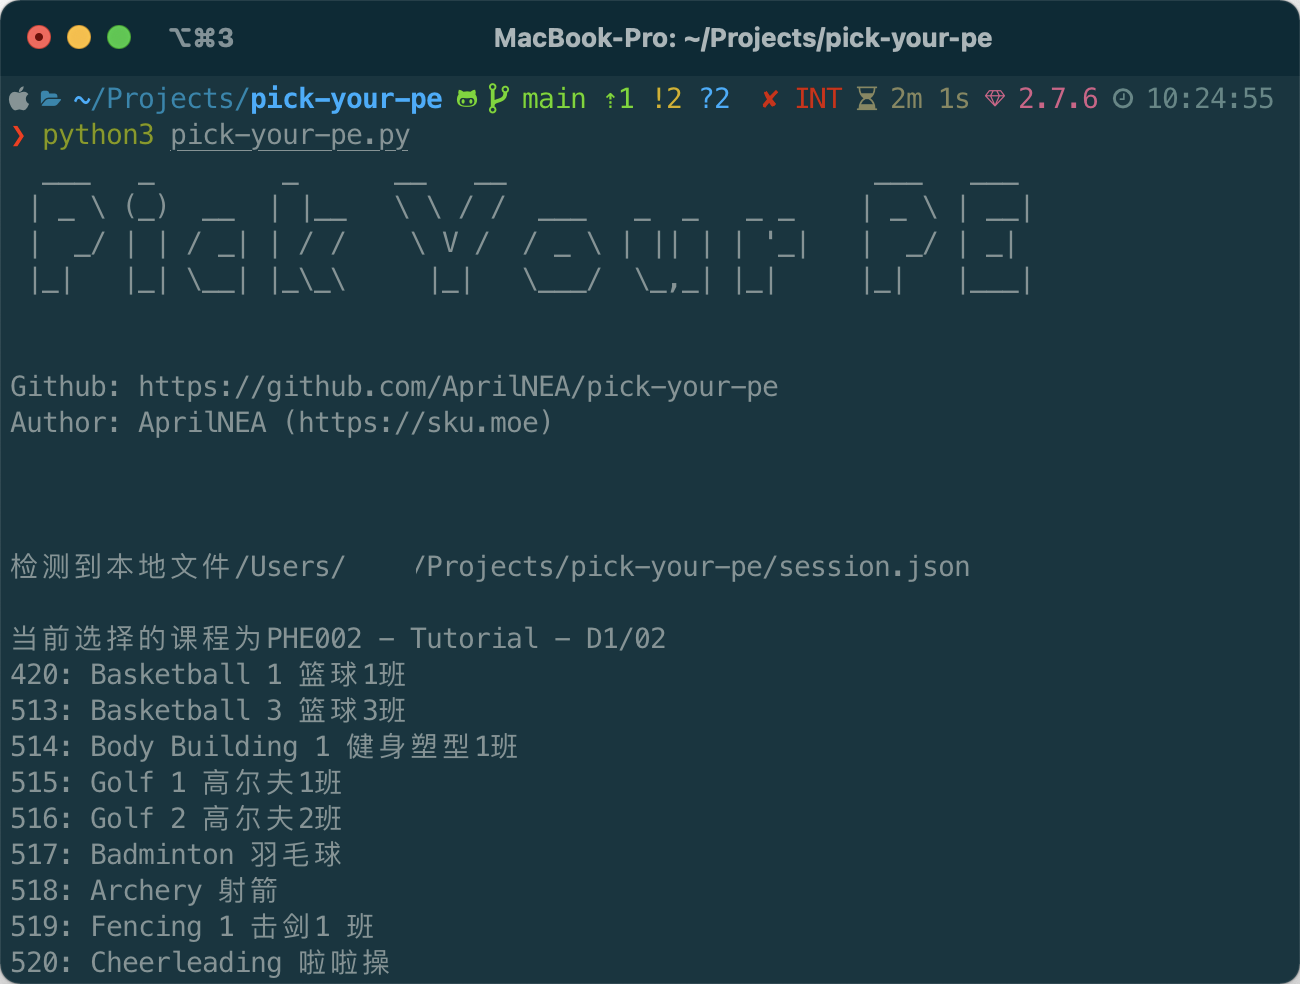
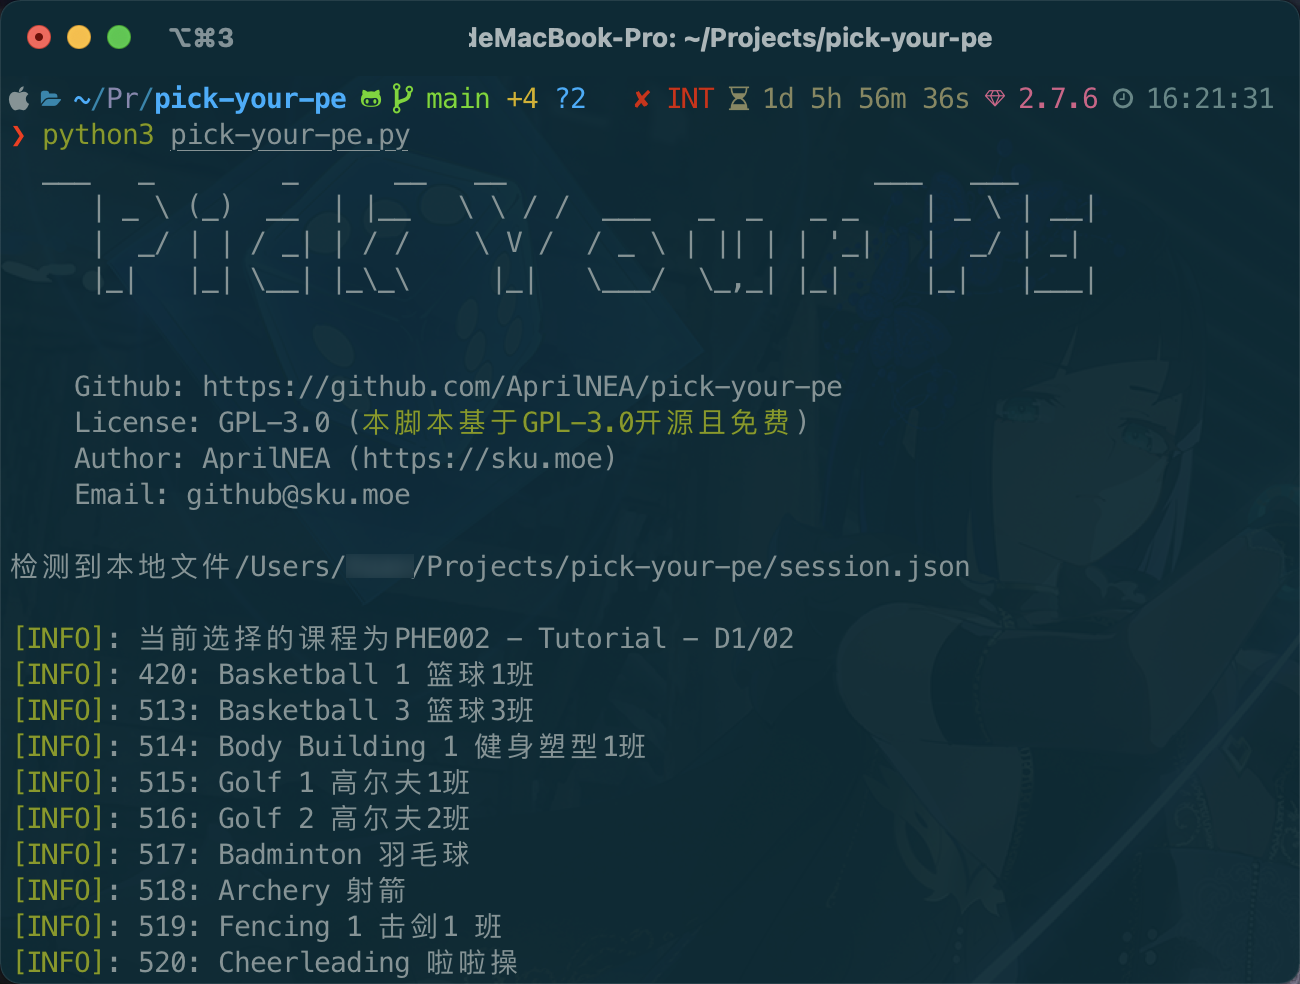
docs(demo): add new demo and `docs/demo2.png`

diff --git a/README.md b/README.md
@@ -1,30 +1,39 @@
 # Pick your favorite PE lession!
 
-免责声明: 
+免责声明:
+
 1. 本脚本不对任何网络拥堵负责，实际上您也并不需要负责。
 2. 本脚本不涉及任何破坏性行为，本质上为模拟您浏览选课页面的完整过程。
 
 ⚠ 本脚本的原理在课程开始选择前 30 秒开始尝试循环提交您的选择，并不能保证您一定能抢到课程。
-   在到达开始选择课程的规定时间后的 10 次提交或 10 秒内，如您的第一志愿并没有成功，脚本会开始提交第二志愿。
+在到达开始选择课程的规定时间后的 10 次提交或 10 秒内，如您的第一志愿并没有成功，脚本会开始提交第二志愿。
 
 当前 PeSelection 页面，只有部分同学更新了选课课程，未更新的同学，请在选择当日重试。
 
 当前脚本仍在完善中，请务必保持脚本更新。
+
 - [ ] 获得选择成功的返回结果(需要第一批选课的同学配合抓包)
 - [ ] 持久化课程选择
 - [x] 加入第二志愿
 
-![Demo](./docs/demo.png)
+
+<center class="half">
+<img src="./docs/demo.png" width="300"/>
+<img src="./docs/demo2.png" width="300"/>
+
+</center>
+
 
 ![流程图](./docs/pick-your-pe.drawio.svg)
 
 ## 使用教程
+
 环境: Python 3.8 以上
 
 ### 二进制运行
 
-
 ### 源码运行
+
 ```shell
 git clone https://github.com/AprilNEA/pick-your-pe.git
 cd pick-your-pe
